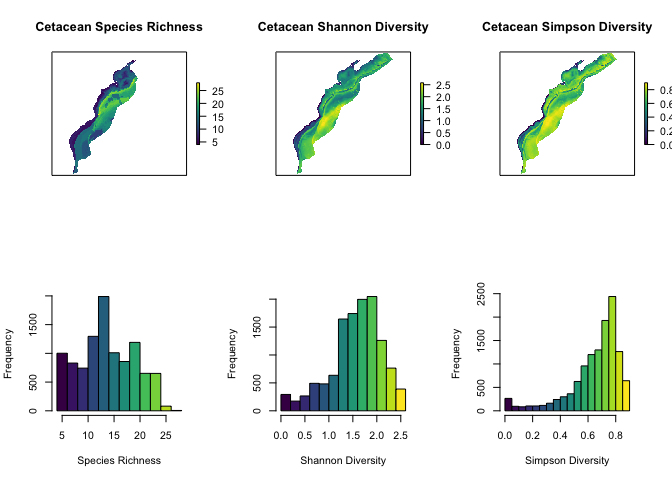
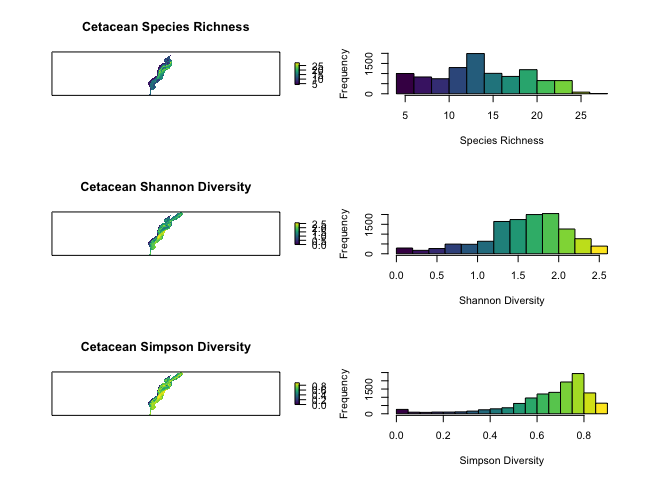
changed the orientation of the maps figure

diff --git a/div_indices.md b/div_indices.md
@@ -1,7 +1,7 @@
 Comparing MDAT diversity metrics
 ================
 emily shumchenia
-01 December 2017
+04 December 2017
 
 Intended audience and purpose
 -----------------------------
